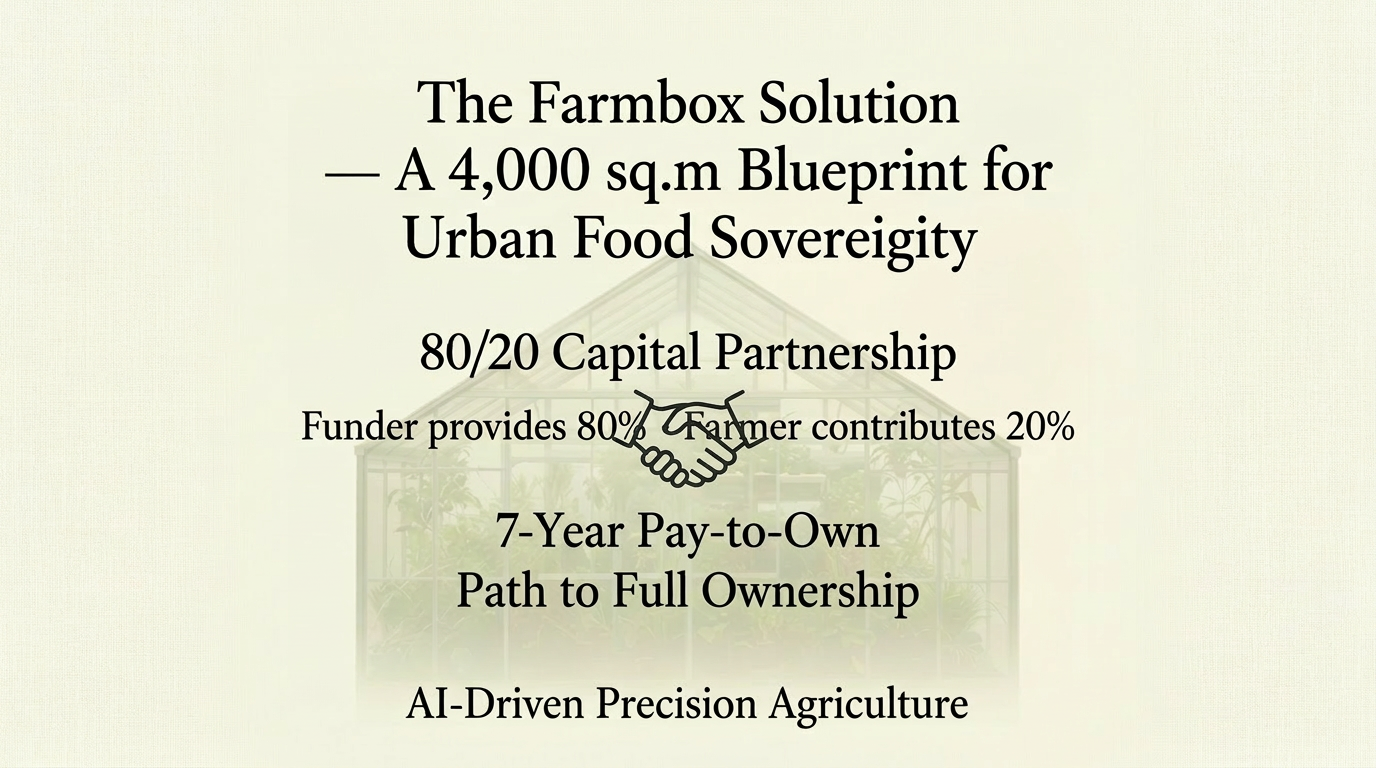
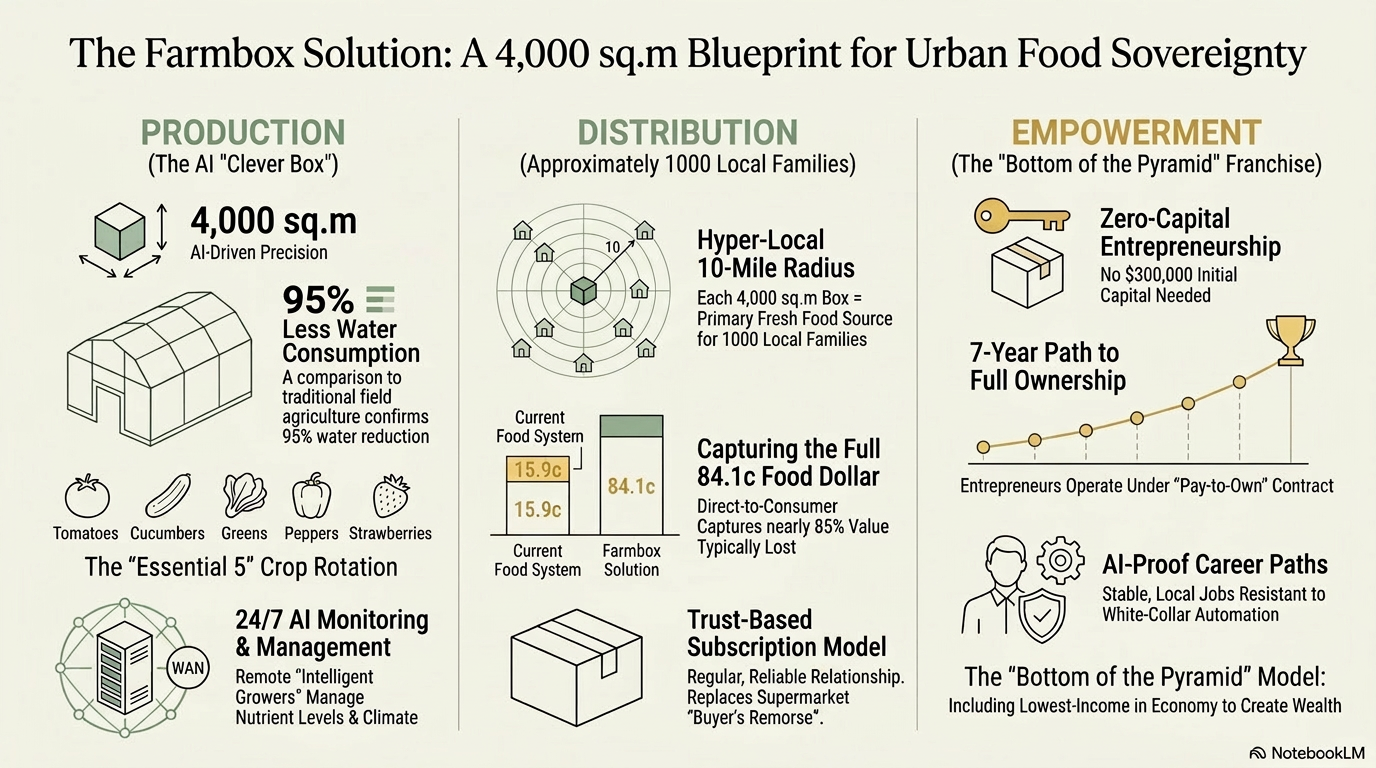
Reverted to commit fc8ff1b4a093670e57120730fd5f16bb6c067c78

diff --git a/src/pages/FarmBox.tsx b/src/pages/FarmBox.tsx
@@ -417,8 +417,8 @@ export default function FarmBox() {
           <div className="fb-section" ref={addRef(0)}>
             <p className="fb-intro">
               A precision-agriculture franchise combining{" "}
-              <strong>AI-driven production, an 80/20 capital partnership</strong>{" "}
-              and hyper-local distribution — placing fresh food
+              <strong>AI-driven production, zero-capital</strong>{" "}
+              entrepreneurship, and hyper-local distribution — placing fresh food
               sovereignty within reach of any urban community.
             </p>
             <div className="fb-metrics">
@@ -520,8 +520,8 @@ export default function FarmBox() {
 
           {/* PULLQUOTE */}
           <div className="fb-pullquote">
-            <p>"An 80/20 capital partnership — the farmer contributes 20%, the funder covers 80%, and ownership transfers in 7 years."</p>
-            <cite>Core financing principle · Pay-to-Own Franchise Model</cite>
+            <p>"Zero-capital entrepreneurship — no $300,000 initial investment required."</p>
+            <cite>Core empowerment principle · Bottom of the Pyramid Franchise Model</cite>
           </div>
 
           {/* EMPOWERMENT */}
@@ -534,8 +534,8 @@ export default function FarmBox() {
               {[
                 {
                   id: "A",
-                  head: "80/20 Capital Partnership",
-                  body: "The farmer contributes 20% ($60,000) while a funder provides 80% ($240,000). A structured Pay-to-Own model from day one.",
+                  head: "Zero-Capital Entry",
+                  body: "No $300,000 start-up capital required. Entrepreneurs operate under a Pay-to-Own contract structure from day one.",
                 },
                 {
                   id: "B",
